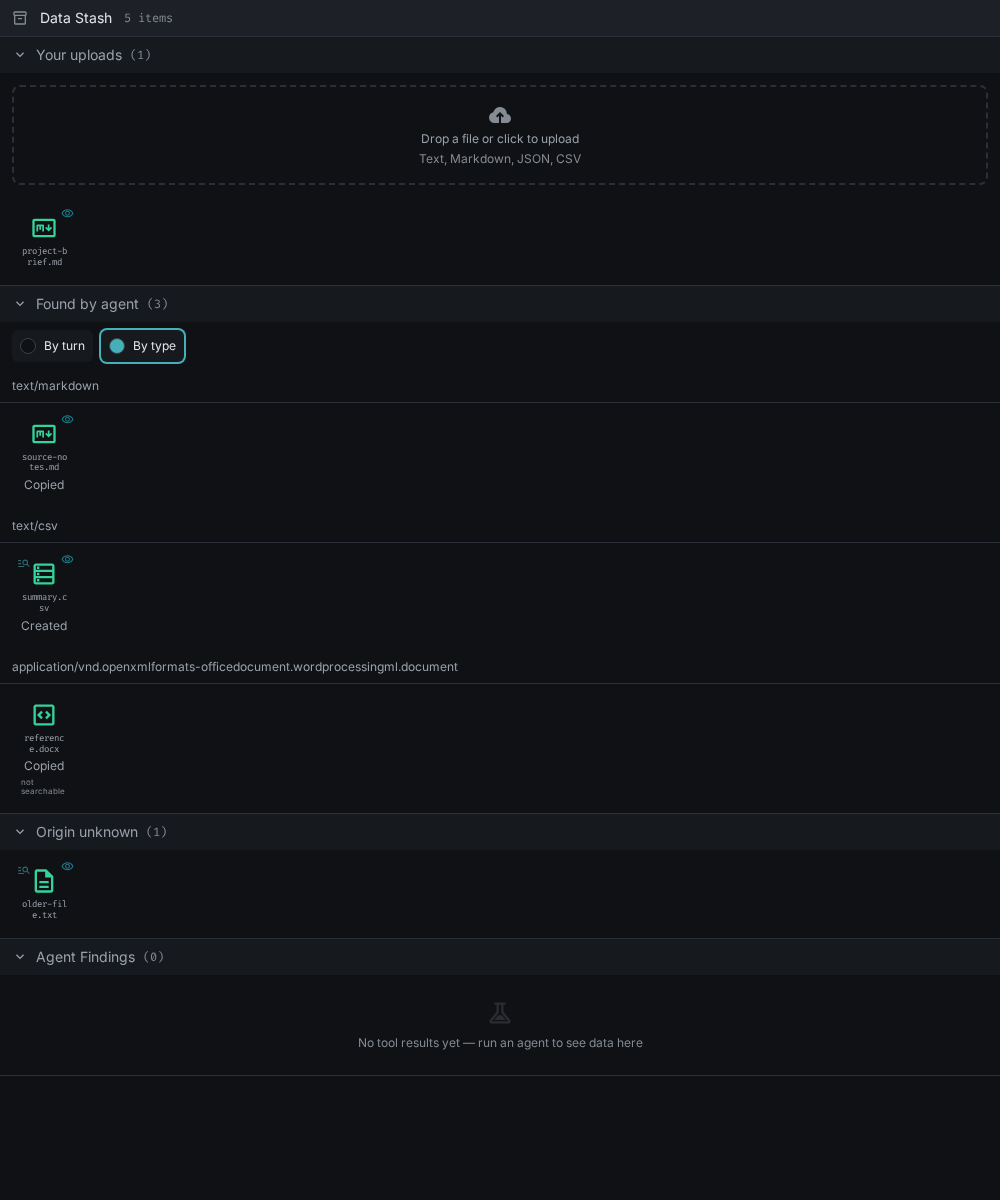
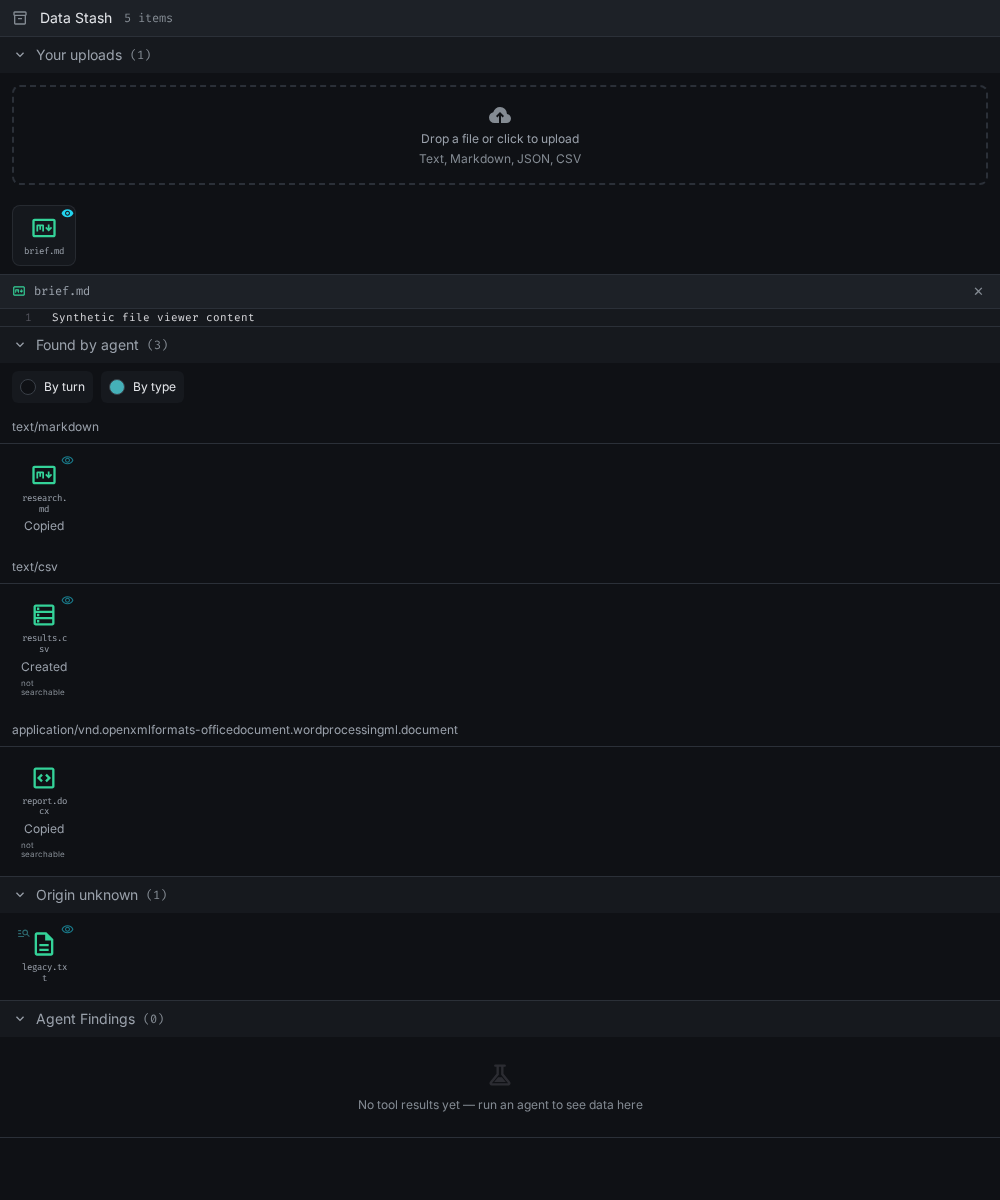
fix(data-stash): keep viewers with their gallery and pin MIME groups

diff --git a/app/src/components/ark-ui/DataStashPanel.tsx b/app/src/components/ark-ui/DataStashPanel.tsx
@@ -11,7 +11,16 @@
  * Hovering shows the LLM summary (or a raw preview if no summary yet).
  */
 
-import { For, Show, createSignal, createMemo, createEffect, on, onCleanup } from 'solid-js'
+import {
+  For,
+  Show,
+  createSignal,
+  createMemo,
+  createEffect,
+  createUniqueId,
+  on,
+  onCleanup,
+} from 'solid-js'
 import { isServer } from 'solid-js/web'
 import { Tooltip } from '@ark-ui/solid/tooltip'
 import { RadioGroup } from '@ark-ui/solid/radio-group'
@@ -1501,19 +1510,34 @@ export const DataStashPanel = (props: DataStashPanelProps) => {
   const totalCount = createMemo(() => toolCount() + docs().length)
 
   const DocumentGallery = (galleryProps: { documents: StashDocumentMeta[] }) => (
-    <div flex="~ wrap" gap="2" p="x-3 y-2">
-      <For each={galleryProps.documents}>
-        {(doc) => (
-          <DocChip
-            doc={doc}
+    <>
+      <div flex="~ wrap" gap="2" p="x-3 y-2">
+        <For each={galleryProps.documents}>
+          {(doc) => (
+            <DocChip
+              doc={doc}
+              sessionId={props.sessionId}
+              onAction={handleDocAction}
+              onView={() => (viewer()?.doc.id === doc.id ? setViewer(null) : openViewer(doc))}
+              active={viewer()?.doc.id === doc.id}
+            />
+          )}
+        </For>
+      </div>
+      <Show
+        when={galleryProps.documents.some((doc) => doc.id === viewer()?.doc.id) ? viewer() : null}
+      >
+        {(v) => (
+          <FileViewer
             sessionId={props.sessionId}
-            onAction={handleDocAction}
-            onView={() => (viewer()?.doc.id === doc.id ? setViewer(null) : openViewer(doc))}
-            active={viewer()?.doc.id === doc.id}
+            doc={v().doc}
+            highlights={v().highlights}
+            initialIndex={v().index}
+            onClose={() => setViewer(null)}
           />
         )}
-      </For>
-    </div>
+      </Show>
+    </>
   )
 
   return (
@@ -1625,20 +1649,24 @@ export const DataStashPanel = (props: DataStashPanelProps) => {
           </p>
         </Show>
         <For each={fileGroups()}>
-          {(group) => (
-            <section aria-label={group.label}>
-              <h3
-                p="x-3 y-2"
-                text="xs ui-text-secondary"
-                font="medium"
-                border="b ui-border-primary"
-                break-all
-              >
-                {group.label}
-              </h3>
-              <DocumentGallery documents={group.documents} />
-            </section>
-          )}
+          {(group) => {
+            const headingId = createUniqueId()
+            return (
+              <section aria-labelledby={headingId}>
+                <h2
+                  id={headingId}
+                  p="x-3 y-2"
+                  text="xs ui-text-secondary"
+                  font="medium"
+                  border="b ui-border-primary"
+                  break-all
+                >
+                  {group.label}
+                </h2>
+                <DocumentGallery documents={group.documents} />
+              </section>
+            )
+          }}
         </For>
       </CollapsibleSection>
 
@@ -1646,17 +1674,6 @@ export const DataStashPanel = (props: DataStashPanelProps) => {
         <CollapsibleSection title="Origin unknown" count={unknown().length} defaultOpen={true}>
           <DocumentGallery documents={unknown()} />
         </CollapsibleSection>
-      </Show>
-      <Show when={viewer()}>
-        {(v) => (
-          <FileViewer
-            sessionId={props.sessionId}
-            doc={v().doc}
-            highlights={v().highlights}
-            initialIndex={v().index}
-            onClose={() => setViewer(null)}
-          />
-        )}
       </Show>
 
       {/* ── Agent Findings ── tool results the agent produced (neo4j, web, …). */}

diff --git a/app/src/__tests__/components/ark-ui/DataStashPanel.test.tsx b/app/src/__tests__/components/ark-ui/DataStashPanel.test.tsx
@@ -378,6 +378,11 @@ describe('DataStashPanel — uploads', () => {
     expect(
       within(screen.getByRole('region', { name: 'Turn 1' })).getByText('copy.csv'),
     ).toBeTruthy()
+    const heading = screen.getByRole('heading', { level: 2, name: 'Turn 1' })
+    expect(screen.getByRole('region', { name: 'Turn 1' })).toHaveAttribute(
+      'aria-labelledby',
+      heading.id,
+    )
     const second = within(screen.getByRole('region', { name: 'Turn 2' }))
     expect(second.getByText('created.md')).toBeTruthy()
     expect(second.getByText('Created')).toBeTruthy()
@@ -412,6 +417,13 @@ describe('DataStashPanel — uploads', () => {
           originTurnId: 'turn-2',
           ingestStatus: 'not_indexed',
         }),
+        doc({
+          id: 'markdown',
+          filename: 'summary.csv',
+          mimeType: 'text/markdown',
+          origin: 'graph-file',
+          originTurnId: 'turn-2',
+        }),
         doc({ id: 'unknown', filename: 'old.csv', mimeType: 'text/csv', origin: 'unknown' }),
       ],
     })
@@ -427,14 +439,51 @@ describe('DataStashPanel — uploads', () => {
     const csv = within(screen.getByRole('region', { name: 'text/csv' }))
     expect(csv.getByText('copy.md')).toBeTruthy()
     expect(csv.getByText('created.txt')).toBeTruthy()
+    expect(csv.queryByText('old.csv')).toBeNull()
+    expect(csv.queryByText('summary.csv')).toBeNull()
+    const markdown = within(screen.getByRole('region', { name: 'text/markdown' }))
+    expect(markdown.getByText('summary.csv')).toBeTruthy()
+    expect(markdown.queryByText('copy.md')).toBeNull()
+    expect(markdown.queryByText('created.txt')).toBeNull()
     expect(csv.getByText('Copied')).toBeTruthy()
     expect(csv.getByText('Created')).toBeTruthy()
     expect(csv.getAllByText('not searchable')).toHaveLength(2)
-    expect(csv.queryByText('old.csv')).toBeNull()
     expect(screen.queryByRole('region', { name: 'Turn 1' })).toBeNull()
     fireEvent.click(screen.getByText('By turn'))
     await settle()
     expect(screen.getByRole('region', { name: 'Turn 1' })).toBeTruthy()
+  })
+
+  it('opens the file viewer under the gallery that opened it (#1041)', async () => {
+    stubFetch({
+      documents: [
+        doc({ id: 'upload', filename: 'upload.md', origin: 'user-upload' }),
+        doc({ id: 'copy', filename: 'copy.md', origin: 'graph-file', originTurnId: 'turn-1' }),
+        doc({
+          id: 'created',
+          filename: 'created.md',
+          origin: 'sandbox-output',
+          originTurnId: 'turn-2',
+        }),
+      ],
+      documentBody: { document: { content: 'Synthetic file viewer content' } },
+    })
+    await renderPanel({
+      events: [
+        { ...userMessage(), id: 'turn-1' },
+        { ...userMessage(), id: 'turn-2' },
+      ],
+    })
+    const uploads = screen.getByRole('button', { name: /Your uploads/ }).parentElement!
+    fireEvent.click(within(uploads).getByTitle('View file'))
+    await settle()
+    expect(within(uploads).getByText('Synthetic file viewer content')).toBeTruthy()
+    const firstTurn = screen.getByRole('region', { name: 'Turn 1' })
+    fireEvent.click(within(firstTurn).getByTitle('View file'))
+    await settle()
+    expect(within(firstTurn).getByText('Synthetic file viewer content')).toBeTruthy()
+    expect(within(uploads).queryByText('Synthetic file viewer content')).toBeNull()
+    expect(screen.getAllByText('Synthetic file viewer content')).toHaveLength(1)
   })
 
   const upload = async (container: HTMLElement, files: File[]) => {

diff --git a/docs/UI_ARCHITECTURE.md b/docs/UI_ARCHITECTURE.md
@@ -440,12 +440,12 @@ backgrounded run keeps filling its own thread.
 
 Tabbed right panel. **Context manager is the default tab.** Uses `lazyMount` + `unmountOnExit` so inactive tabs don't hold Cytoscape instances in memory.
 
-| Tab                             | Content                                                                                                                                                                                                                                                     |
-| ------------------------------- | ----------------------------------------------------------------------------------------------------------------------------------------------------------------------------------------------------------------------------------------------------------- |
-| Neo4j                           | Graph visualization for Neo4j query results (accumulated, live sync)                                                                                                                                                                                        |
-| Memory                          | The signed-in user's own saved memories from Postgres (list, filter, forget, export, switch off)                                                                                                                                                            |
-| **Context manager** _(default)_ | Event timeline + LLM call detail                                                                                                                                                                                                                            |
-| Data                            | Data Stash — two collapsible groups: **Your Uploads** (drag-drop/picker + document chips) and **Agent Findings** (tool-result icons by turn), each with hide/archive/delete. See [DATA_STASH.md](DATA_STASH.md) for the upload→chunk→embed→search pipeline. |
+| Tab                             | Content                                                                                                                                                                                                                                                                                                                                                                                                                            |
+| ------------------------------- | ---------------------------------------------------------------------------------------------------------------------------------------------------------------------------------------------------------------------------------------------------------------------------------------------------------------------------------------------------------------------------------------------------------------------------------- |
+| Neo4j                           | Graph visualization for Neo4j query results (accumulated, live sync)                                                                                                                                                                                                                                                                                                                                                               |
+| Memory                          | The signed-in user's own saved memories from Postgres (list, filter, forget, export, switch off)                                                                                                                                                                                                                                                                                                                                   |
+| **Context manager** _(default)_ | Event timeline + LLM call detail                                                                                                                                                                                                                                                                                                                                                                                                   |
+| Data                            | Data Stash — collapsible **Your uploads** (drag-drop/picker + uploaded files), **Found by agent** (Copied/Created files grouped by turn or full MIME type), **Origin unknown** (legacy files without proven origin, when present), and **Agent Findings** (tool-result icons by turn); document actions and inline viewers stay with their gallery. See [DATA_STASH.md](DATA_STASH.md) for the upload→chunk→embed→search pipeline. |
 
 **Conversation Sync toggle:** The Neo4j graph tab has a pause/play "Sync" button (cyan when live, amber when paused; the state is in its `aria-label`, since the glyph is a `material-symbols` icon). Implemented in `GraphTabContent` via a `syncEnabled` signal. When paused, the current element list is snapshotted into `frozenElements` and passed to `GraphVisualization` instead of live `props.elements`. Resuming restores the live feed.
 

diff --git a/docs/DATA_STASH.md b/docs/DATA_STASH.md
@@ -154,7 +154,7 @@ The `type` field distinguishes vector backends from non-vector ones (`redis-keyw
 
 ## Storage model (Redis)
 
-- **Document**: RedisJSON blob at `stash:doc:{sessionId}:{docId}`, TTL default 7 days. `content` is UTF-8 text by default; binary files (xlsx, pdf, images) are stored with `encoding: 'base64'` and `size` = the original (decoded) byte count (#89). Binary content is byte-faithful and, by default, **not** semantically searchable (chunking/embedding is text-only) — unless [document conversion](#document-conversion) is enabled, which turns a convertible type (docx/pdf/pptx/odt) into markdown stored alongside as `derivedText` (the original bytes stay in `content` for `?download`). An `ingestStatus` (`pending` | `indexed` | `failed` | `not_indexed`) is stamped when the harness-aware path ingests the doc; absent means it was never ingested (no redis-retriever in the harness), or it is an unchosen sandbox output whose indexing is the person's choice. `not_indexed` is what `graph_file_ingest` stores for a copy whose format has no text to index (an image; a docx with conversion off), so the panel marks it "not searchable" rather than leaving it looking indexed — the upload route still stores such a file with no status. A `failed` doc also carries `ingestError`, the recorded reason (#420), which the panel shows on its "not searchable" chip and `graph_file_ingest` returns as `indexError`; the next run clears it. A successful ingest also records `chunkCount`, the number of chunks it indexed (#927) — a derived figure like `size`, rendered in the documents block and the retriever's step line; a document ingested before it was recorded renders without one, never as 0. Meta reads expose a computed `converted` flag when `derivedText` is present.
+- **Document**: RedisJSON blob at `stash:doc:{sessionId}:{docId}`, TTL default 7 days. `content` is UTF-8 text by default; binary files (xlsx, pdf, images) are stored with `encoding: 'base64'` and `size` = the original (decoded) byte count (#89). Binary content is byte-faithful and, by default, **not** semantically searchable (chunking/embedding is text-only) — unless [document conversion](#document-conversion) is enabled, which turns a convertible type (docx/pdf/pptx/odt) into markdown stored alongside as `derivedText` (the original bytes stay in `content` for `?download`). An `ingestStatus` (`pending` | `indexed` | `failed` | `not_indexed`) is stamped when the harness-aware path ingests the doc; absent means it was never ingested (no redis-retriever in the harness), or it is an unchosen sandbox output whose indexing is the person's choice. `not_indexed` is what `graph_file_ingest` stores for a copy whose format has no text to index (an image; a docx with conversion off), so the panel marks it "not searchable" rather than leaving it looking indexed — the upload route still stores such a file with no status. A `failed` doc also carries `ingestError`, the recorded reason (#420), which the panel shows on its "not searchable" chip and `graph_file_ingest` returns as `indexError`; the next run clears it. A successful ingest also records `chunkCount`, the number of chunks it indexed (#927) — a derived figure like `size`, rendered in the documents block and the retriever's step line; a document ingested before it was recorded renders without one, never as 0. Meta reads expose a computed `converted` flag when `derivedText` is present. The record also stores host-assigned `origin` (`user-upload` | `graph-file` | `sandbox-output` | `unknown`), ambient `originTurnId`/`sourceCallId` when available, and known `sourceTool`/`driveId`/`itemId`/`webUrl`; legacy records read `unknown` unless existing sandbox provenance proves `sandbox-output`, and origin is display-only metadata, never an input to permissions, trust, content checks, indexing, or retrieval.
 - **Session index**: a Redis SET `stash:docs:{sessionId}` of doc ids (self-healing — stale entries pruned on list).
 - **Chunk**: a Redis HASH `stashvec:{sessionId}:{spaceTag}:{docId}:{chunkIndex}` with `vector` (float blob) + `meta` (base64 of a JSON `{content, doc_id, source, chunk_index, offsets, model, provider, dim}`) + — since #928 slice 1 — `text`, the chunk's plain text in the full-text-indexed field BM25 scores (the base64 `meta` is one opaque token to the index and cannot be scored). 3 writes/chunk.
 - **Vector index**: a RediSearch HNSW index per `(session, embedding-space)` — `dim` matches the embedding model — with a schema-version suffix — `stash_idx_{sanitized session}_{spaceTag}_v{STASH_INDEX_SCHEMA_VERSION}` (#928 slice 1); the schema declares the `text` field as TEXT so BM25 scores it. Bumping the version strands old corpora in their old-version index until the ingest safety net lazily re-ingests them into the current one; the old index simply empties as its chunks expire with the stash's 7-day TTL.
